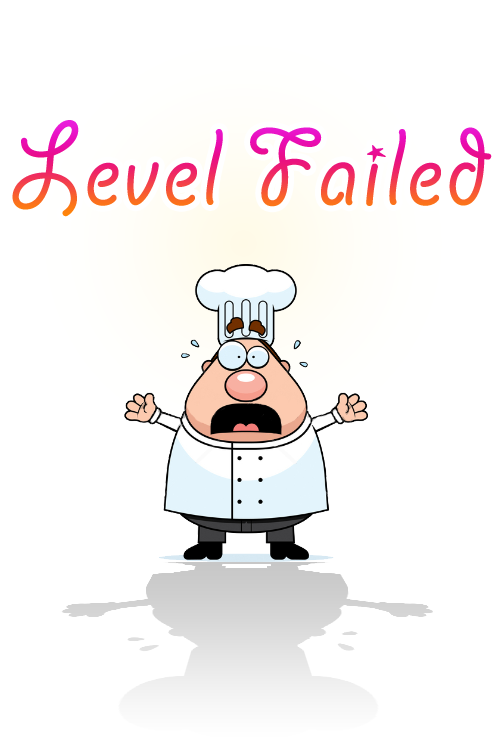
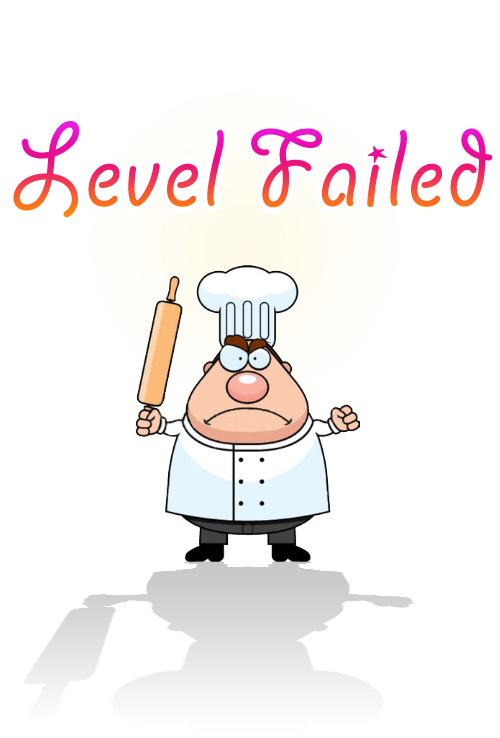
Updated game lose image; Add preprocessor marco to hide/show the test menu

diff --git a/ClumsyChef/ClumsyChef/AppDelegate.m b/ClumsyChef/ClumsyChef/AppDelegate.m
@@ -13,7 +13,7 @@
 #import "RootViewController.h"
 #import "TestMenuLayer.h"
 #import "SimpleAudioEngine.h"
-
+#import "CHMainMenuLayer.h"
 
 @implementation AppDelegate
 
@@ -127,9 +127,12 @@
 
     
     
-	
+#ifdef CH_NO_TEST_MENU
 	// Run the intro Scene
-	[[CCDirector sharedDirector] runWithScene: [TestMenuLayer layerAsScene]];
+	[[CCDirector sharedDirector] runWithScene:[CHMainMenuLayer layerAsScene]];
+#else
+	[[CCDirector sharedDirector] runWithScene:[TestMenuLayer layerAsScene]];
+#endif
 }
 
 
